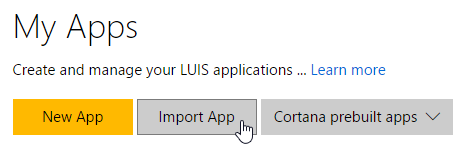
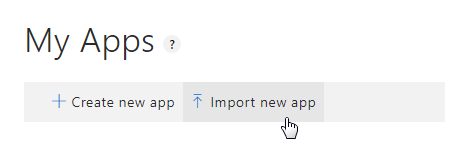
Update v3 LUIS-Translator readme links and other minor changes

Changed region(s): [[0.0299, 0.4076, 0.9851, 0.9172], [0.0299, 0.0764, 0.3284, 0.3822], [0.3582, 0.2548, 0.3881, 0.3057]]

diff --git a/CSharp/intelligence-LUIS-Translator/Controllers/MessagesController.cs b/CSharp/intelligence-LUIS-Translator/Controllers/MessagesController.cs
@@ -46,20 +46,21 @@
         {
             if(message.Type == ActivityTypes.ConversationUpdate)
             {
-                var connector = new ConnectorClient(new Uri(message.ServiceUrl));
-                string reply = "Welcome to Luis Translator sample.\n To set your language please enter \"set my language to {languageId}\"";
-                await connector.Conversations.ReplyToActivityAsync(message.CreateReply(reply)).ConfigureAwait(false);
+                for (int i = 0; i < message.MembersAdded.Count; i++)
+                {
+                    if (message.MembersAdded[i].Id != message.Recipient.Id)
+                    {
+                        var connector = new ConnectorClient(new Uri(message.ServiceUrl));
+                        string reply = "Welcome to Luis Translator sample.\n To set your language please enter \"set my language to {languageId}\"";
+                        await connector.Conversations.ReplyToActivityAsync(message.CreateReply(reply)).ConfigureAwait(false);
+                        break;
+                    }
+                }
             }
             else if (message.Type == ActivityTypes.DeleteUserData)
             {
                 // Implement user deletion here
                 // If we handle user deletion, return a real message
-            }
-            else if (message.Type == ActivityTypes.ConversationUpdate)
-            {
-                // Handle conversation state changes, like members being added and removed
-                // Use Activity.MembersAdded and Activity.MembersRemoved and Activity.Action for info
-                // Not available in all channels
             }
             else if (message.Type == ActivityTypes.ContactRelationUpdate)
             {

diff --git a/CSharp/intelligence-LUIS-Translator/README.md b/CSharp/intelligence-LUIS-Translator/README.md
@@ -16,15 +16,15 @@ The minimum prerequisites to run this sample are:
 
 #### LUIS Application
 
-The first step to using LUIS is to create or import an application. Go to the home page, www.luis.ai, and log in. After creating your LUIS account you'll be able to Import an Existing Application where can you can select a local copy of the LuisBot.json file an import it.
+The first step to using LUIS is to create or import an application. Go to the home page, www.luis.ai, and log in. After creating your LUIS account you'll be able to Import an Existing Application where you can select a local copy of the HotelsReservation.json file and import it.
 
 ![Import an Existing Application](images/prereqs-import.png)
 
-If you want to test this sample, you have to import the pre-build [HotelReservation.json](Dialogs/HotelReservation/Resources/HotelReservation.json) file to your LUIS account.
+If you want to test this sample, first import the pre-built application [HotelReservation.json](Dialogs/HotelReservation/Resources/HotelReservation.json) file to your LUIS account.
 
-Once you imported the application you'll need to "train" the model ([Training](https://docs.microsoft.com/en-us/azure/cognitive-services/luis/train-test)) before you can "Publish" the model in an HTTP endpoint. For more information, take a look at [Publishing a Model](https://docs.microsoft.com/en-us/azure/cognitive-services/luis/publishapp).
+Once you imported the application you'll need to "train" the model ([Training](https://docs.microsoft.com/en-us/azure/cognitive-services/LUIS/luis-how-to-train)) before you can "Publish" it. For more information, take a look at [LUIS - How to Publish](https://docs.microsoft.com/en-us/azure/cognitive-services/LUIS/luis-how-to-publish-app).
 
-Edit the [webconfig.cs](web.config) file and update the LuisModel attribute placeholders with the values corresponding to your Subscription and Application.
+Edit the [webconfig.cs](web.config) file and update the LuisModel attribute placeholders with the values corresponding to your Subscription and Application.  For more information, see [LUIS - Subscription Keys](https://docs.microsoft.com/en-us/azure/cognitive-services/LUIS/luis-how-to-azure-subscription)
 
 ````XML
     ...
@@ -65,7 +65,7 @@ You'll need these two values to configure the LuisDialog through the LuisModel a
     
 2. Subscription Key
 
-    Click on the Publish App link from the LUIS application dashboard.  Once your app is published, copy the subscription key from the app endpoint url on the Publish App page.
+    Click on the Manage tab from the LUIS application UI.  Then navigate to Keys and Endpoints settings, and use the Authoring Key for this sample.  For instructions on using an actual Subscription Key, see [Using Subscription Keys](https://docs.microsoft.com/en-us/azure/cognitive-services/luis/luis-how-to-azure-subscription) 
     
     ![Programmatic API Key](images/prereqs-apikey.png)
     
@@ -83,9 +83,9 @@ You will see the following in the Bot Framework Emulator when opening and runnin
 
 To get more information about how to get started in Bot Builder for .NET and Conversations please review the following resources:
 * [Bot Builder for .NET](https://docs.microsoft.com/en-us/bot-framework/dotnet/)
-* [Add language understanding to a bot](https://docs.botframework.com/en-us/node/builder/guides/understanding-natural-language/)
+* [Recognize intents and entities with LUIS](https://docs.microsoft.com/en-us/azure/bot-service/dotnet/bot-builder-dotnet-luis-dialogs/)
 * [LUIS Help Docs](https://docs.microsoft.com/en-us/azure/cognitive-services/LUIS/Home)
-* [Cognitive Services Documentation](https://docs.microsoft.com/en-us/azure/#pivot=products&panel=cognitive)
+* [Cognitive Services Documentation](https://azure.microsoft.com/en-us/services/cognitive-services/)
 * [Specify initial form state and entities](https://docs.microsoft.com/en-us/bot-framework/dotnet/bot-builder-dotnet-formflow-advanced#specify-initial-form-state-and-entities)
 * [Translator Text API](https://azure.microsoft.com/en-us/services/cognitive-services/translator-text-api/)
 
